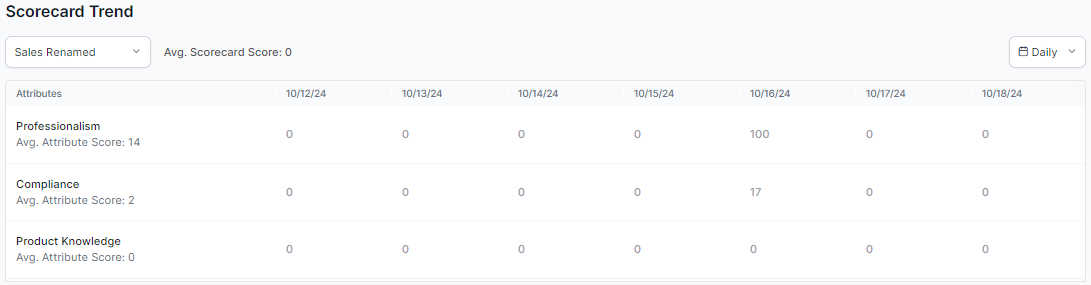
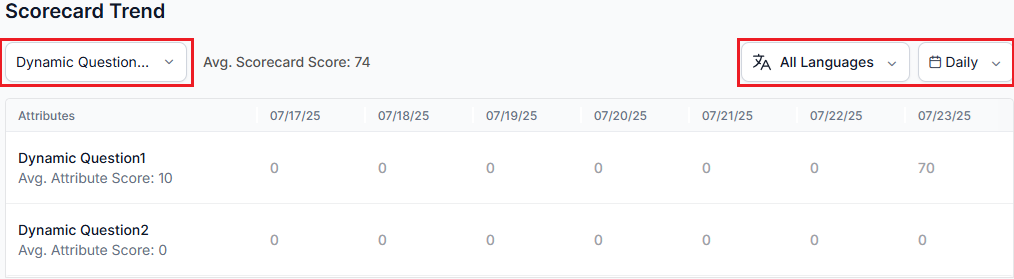
updated content

diff --git a/docs/xo/quality-management/analyze/my-dashboard-agent-view.md b/docs/xo/quality-management/analyze/my-dashboard-agent-view.md
@@ -1,28 +1,44 @@
 # Agent Dashboard
 
-**My Dashboard** is the Agent Dashboard for agents’ view, which offers detailed insights into your activity and performance as an agent.
+## Overview
 
-Each agent has a personalized dashboard, which is accessible to both the agents. In this, the agents can view their performance through scorecards provided by their supervisors. This setup allows agents to take appropriate actions based on their performance metrics.
+**My Dashboard** is a personalized agent dashboard, that provides agents with performance insights via supervisor-assigned scorecards. It supports global language settings for general widgets, while Scorecard widgets allow independent language selection for multilingual performance tracking.
 
-You can access **My Dashboard** by navigating to **Contact Center AI** > **Quality AI** > **Analyze** > **My Dashboard**.  
+Agents can view trends, coaching insights, and improvement areas, such as voice attributes. **Calendar** and **Channel** filters enable focused analysis by time period and communication channel.
+
+### Key Functionalites
+
+* **Real-time Performance Monitoring**: Access real-time feedback through supervisor scorecards and automated Quality Assurance (QA) scoring.
+
+* **Data-driven Decision Making**: Utilize concrete metrics including evaluation scores, audit results, and coaching assignments to guide professional development.
+
+* **Coaching Insights Analysis**: Track coaching assignments and identify improvement areas.
+
+* **Multi-channel Analysis**: Compare performance across voice, chat, and combined channels.
+
+* **Historical Tracking**: Monitor improvement trends through daily, weekly, and monthly views.
+
+### Access My Dashboard 
+
+Access **My Dashboard** by navigating to **Contact Center AI** > **Quality AI** > **Analyze** > **My Dashboard**.  
 <img src="../agent-dashboard/images/my-dashboard-view.png" alt="My Dashboard-Agent View" title="My Dashboard-Agent View" style="border: 1px solid gray; zoom:60%;">
-
-In this, you can filter all your interaction channels (Voice and SMS or both) by selecting the following date ranges:
-
-* **Today**: All interaction data for this day, in the agent’s time zone.
-* **Yesterday**: All interaction data of the previous day, in the agent’s time zone.
-* **Last 7 days**: All interaction data for the previous 7 days (not including today), in the agent’s time zone.
-* **Last 28 days**: All interaction data for the previous 28 days, (not including today), in the agent’s time zone.
-* **Last 90 days**: All interaction data for the previous 90 days, (not including today), in the agent’s time zone.
-* **Custom Range**: All interaction data from the given date (12:00:00 AM to 11:59:59 PM), in the agent’s time zone, limited to **31** days.
 
 !!! Note
 
-    If the Supervisor or Admin has not enabled the **Auto QA** and **Agent Scorecard** toggle option in the Quality AI displayed under **Settings**, then you will not be able to view the automated scoring of interactions in the Dashboard.
+    A Supervisor or Admin must enable the following settings for the dashboard to load your personalized performance data, automated scoring, and interaction access.
 
-## Overview
+    * Auto QA
 
-The **Overview** of the Dashboard displays metrics for the chosen time and selected channel (**All**, **Voice,** **Chat**), which includes:
+    * Agent Score Card
+
+    * Agent Access to Scored Interactions
+
+You can find these configurations options under:
+**Configure** > **Settings** > **Quality AI General Settings**.
+
+### Filter Options
+
+My dashboard metrics allow you to filter and refine the data displayed across the entire dashboard by selected languages, date range or calendar, and channel.
 
 * **Total Interactions**: This shows the overall number of interactions completed for the time period.
 
